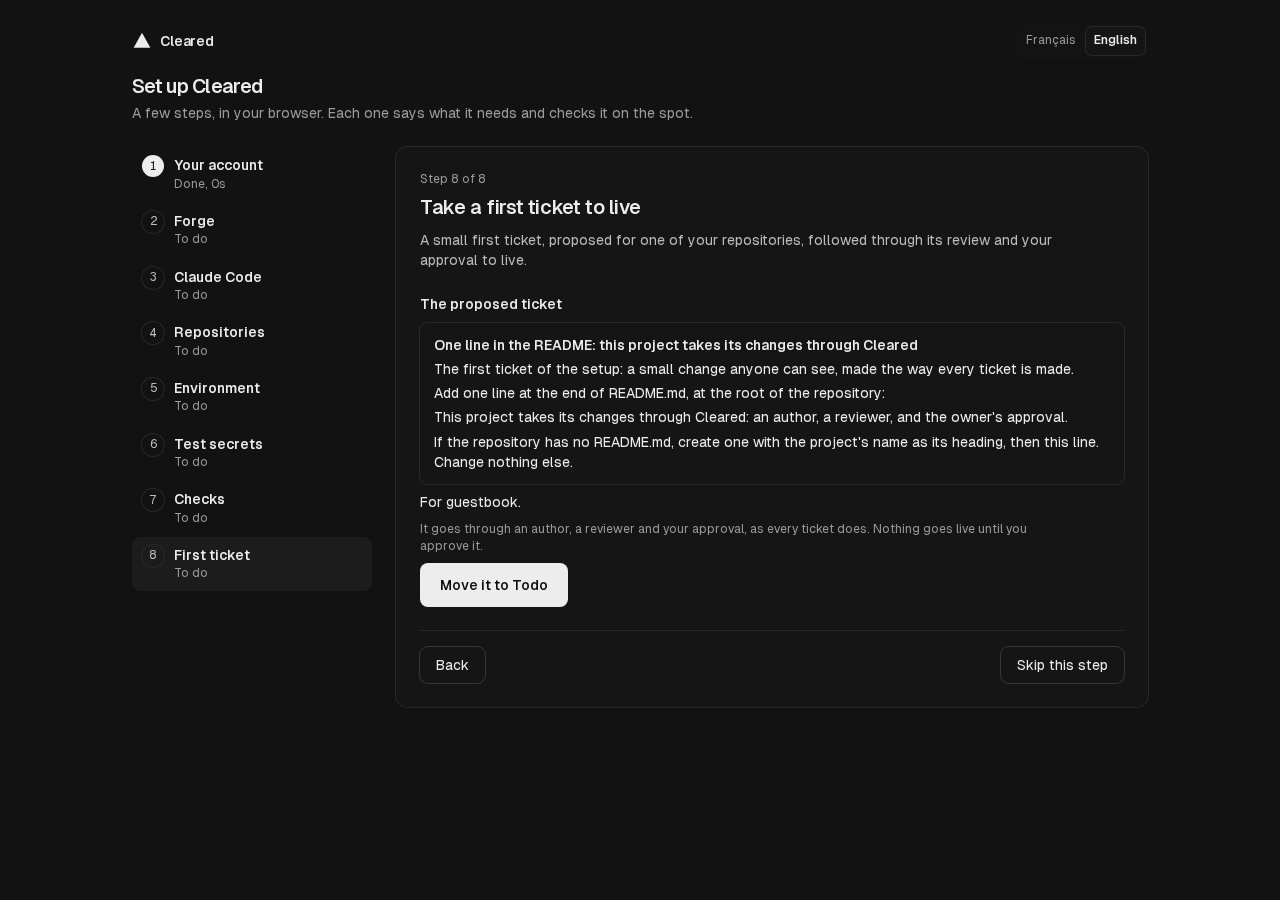
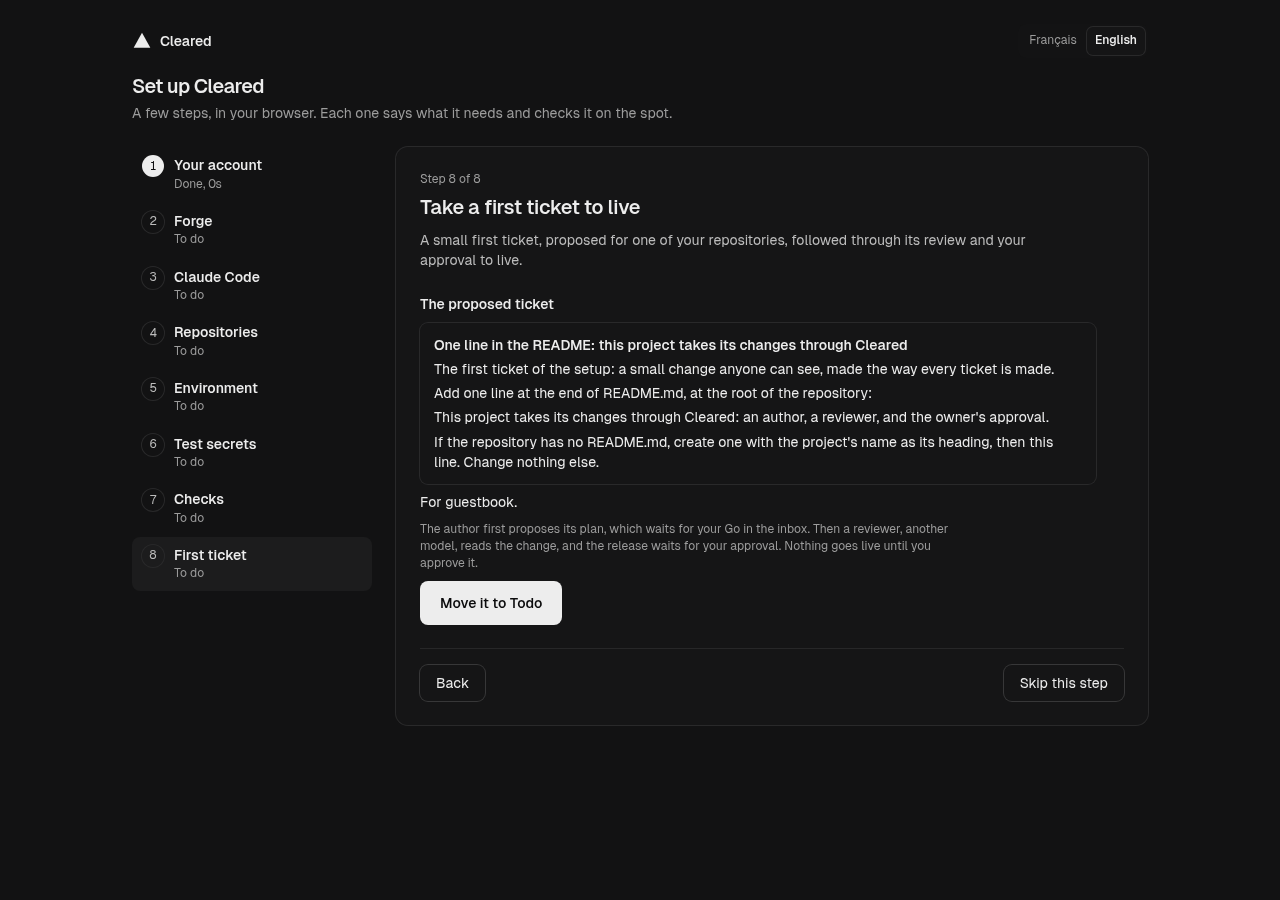
fix(v2): the first-ticket step says the session plan waits for its Go in the inbox (#446)
The first ticket's author proposes a session plan, and the flow holds it
until a Go (decision 22 of milestone 2). The step showed "the author" all
that time and linked to the inbox only at the approval, so a newcomer who
followed the step alone waited for the delay's Go, or for good when the
plan's confidence was not high.

While a session_plan item of the ticket waits in the inbox, the step's
stage is `plan`: it says the plan waits for the person's Go and links to
that item (/inbox#<id>). The list keeps the author's stage as the current
one, so it never moves back. The proposal's note says the plan's Go comes
first, then the review and the approval. French and English.

Refs #446

diff --git a/v2/test/setup/first-ticket.test.ts b/v2/test/setup/first-ticket.test.ts
@@ -17,10 +17,12 @@ import { HttpError } from '../../src/setup/http.ts';
 import { SETUP_STEPS_TABLE, SetupRecords } from '../../src/setup/records.ts';
 import type { StepDeps } from '../../src/setup/step.ts';
 import FIRST_TICKET, { FIRST_TICKET_TABLE, firstTicketStep } from '../../src/setup/steps/first-ticket.ts';
+import type { SessionPlanItem } from '../../src/api/types.ts';
+import type { FakeStep } from '../../src/session/adapters/fake.ts';
 import { HOUR_MS, summaryOf, totalOf } from '../../src/setup/summary.ts';
 import type { FirstTicketView, StepView } from '../../src/setup/types.ts';
 import { STEP_IDS } from '../../src/setup/types.ts';
-import { REPORT_PASS, quickAuthor, reviewerScript, setup, until, type Setup } from '../flow/support.ts';
+import { REPORT_PASS, fakeEffects, finished, quickAuthor, reviewerScript, setup, started, text, until, type Setup } from '../flow/support.ts';
 
 type Call = (path: string, options?: { readonly method?: string; readonly body?: unknown; readonly user?: string }) => Promise<{ status: number; text: string; json: any }>;
 
@@ -156,6 +158,35 @@ test('the step follows the ticket: working, review, then the approval waiting in
     (await call('?language=en'));
     assert.equal(records.get('first-ticket')?.machineMs, record?.machineMs, 'counted once');
   }, t.clock);
+});
+
+// Issue #446: the author's first turn proposes a session plan, and the
+// flow holds it until a Go (decision 22 of milestone 2). The step says the
+// plan waits for the person's Go and links to its item in the inbox.
+const planned: readonly FakeStep[] = [
+  started, ...text('p1', 'I read the project. Here is my plan.'),
+  { hostCall: { toolCallId: 'plan-1', name: 'propose_session_plan', input: { steps: ['Add the line'], files: ['README.md'], confidence: 'medium', reason: 'One line.' } } },
+  finished(0.1), { awaitMessage: true }, started, ...text('a1', 'Done.'), finished(0.3),
+];
+
+test('the plan waits for the owner\'s Go: the step says so with its item in the inbox, then follows the author once the Go is given', async () => {
+  const settings = await fakeEffects([]).settings();
+  const t = await setup({ scripts: { author: planned, reviewers: [reviewerScript(REPORT_PASS)] }, config: { authorTools: true }, effects: { settings: async () => settings } });
+  await serve(() => t.engine, async (call) => {
+    const made = (await call('', { method: 'POST', body: { service: 'guestbook', language: 'en' } })).json as FirstTicketView;
+    const waitingPlan = () => t.inbox.items().find((item): item is SessionPlanItem => item.kind === 'session_plan' && item.state === 'waiting' && item.ticket === made.ticket?.id);
+    await until(() => waitingPlan() !== undefined, 'the session plan in the inbox', 5000);
+    await t.engine.settled();
+    const item = waitingPlan() as SessionPlanItem;
+    const held = (await call('?language=en')).json as FirstTicketView;
+    assert.equal(held.ticket?.stage, 'plan');
+    assert.equal(held.ticket?.plan, item.id, 'the item the inbox opens');
+    await t.engine.planGo(item.sessionId, 'u1');
+    await t.engine.settled();
+    const going = (await call('?language=en')).json as FirstTicketView;
+    assert.notEqual(going.ticket?.stage, 'plan');
+    assert.equal(going.ticket?.plan ?? null, null);
+  });
 });
 
 test('a first ticket rolled back by the release watch is back in Todo, said so, and not live', async () => {

diff --git a/v2/src/setup/steps/first-ticket.ts b/v2/src/setup/steps/first-ticket.ts
@@ -2,8 +2,9 @@
 // 14, proof steps 9 and 10): a first ticket that changes one visible line
 // of the project, its text kept here rather than in the Tower's templates,
 // proposed with the service it targets; moved to Todo in one click, where
-// the flow starts it as any ticket (author, review, the owner's approval in
-// the inbox, the lock, the release watch); then followed to live. The step
+// the flow starts it as any ticket (author, its session plan's Go and the
+// owner's approval in the inbox, review, the lock, the release watch); then
+// followed to live. The step
 // is done when the ticket is Done, at that moment: the machine's time is
 // the sessions' (Todo to the approval asked) and the merge's (approved to
 // Done), the rest is the person's.
@@ -71,6 +72,11 @@ function stageOf(status: string, states: TicketStore['states']): FirstTicketStag
   }
 }
 
+// The author's session plan that waits for its Go in the inbox, if one does
+// (issue #446): the owner's gesture, as the approval is.
+const waitingPlan = (engine: FlowEngine, ticket: string): string | undefined =>
+  engine.inbox.items().find((item) => item.kind === 'session_plan' && item.state === 'waiting' && item.ticket === ticket)?.id;
+
 const ms = (from: string | undefined, to: string | undefined): number =>
   from && to ? Math.max(0, Date.parse(to) - Date.parse(from)) : 0;
 
@@ -102,12 +108,14 @@ export function firstTicketStep(options: { readonly engine: (registry: Registry)
     const ticket: Ticket | undefined = await tickets?.get(kept.ticket).catch(() => undefined);
     if (!tickets || !ticket) return { id: kept.ticket, title: '', service: kept.service, stage: 'stopped', createdAt: kept.created_at, rolledBack: false };
     const history = await tickets.history(ticket.id);
-    const stage = stageOf(ticket.status, tickets.states);
+    let stage = stageOf(ticket.status, tickets.states);
+    const plan = stage === 'working' && engine ? waitingPlan(engine, ticket.id) : undefined;
+    if (plan) stage = 'plan';
     if (stage === 'live' && !deps.records.get('first-ticket')?.doneAt) {
       deps.records.machine('first-ticket', machineOf(history, tickets.states));
       deps.records.done('first-ticket', history.filter((change) => change.status === tickets.states.done).at(-1)?.at ?? deps.now().toISOString());
     }
-    return { id: ticket.id, title: ticket.title, service: kept.service, stage, createdAt: kept.created_at, rolledBack: rolledBack(history, tickets.states) };
+    return { id: ticket.id, title: ticket.title, service: kept.service, stage, createdAt: kept.created_at, rolledBack: rolledBack(history, tickets.states), ...(plan ? { plan } : {}) };
   }
 
   async function viewOf(deps: StepDeps, context: RouteContext, language: Language): Promise<FirstTicketView> {

diff --git a/v2/app/web/screens/setup/steps/FirstTicket.tsx b/v2/app/web/screens/setup/steps/FirstTicket.tsx
@@ -3,7 +3,7 @@
 // targets, and one button that moves it to Todo; then the ticket followed
 // stage by stage, each stage in words beside its mark, the current one
 // marked for assistive technology and said in a polite live region; the
-// approval sent to the inbox, as for every ticket. Live, the setup's
+// session plan's Go and the approval sent to the inbox, as for every ticket. Live, the setup's
 // summary: each step's time, the person's and the machine's, and the total.
 import { useCallback, useEffect, useRef, useState } from 'react';
 import { summaryOf } from '../../../../../src/setup/summary.ts';
@@ -72,7 +72,8 @@ function Proposal({ t, view, onMove, busy, error }: { readonly t: Translate; rea
 function Followed({ t, view, summary }: { readonly t: Translate; readonly view: FirstTicketView; readonly summary: SetupView | undefined }) {
   const ticket = view.ticket;
   if (!ticket) return null;
-  const reached = FIRST_TICKET_STAGES.indexOf(ticket.stage as (typeof FIRST_TICKET_STAGES)[number]);
+  // A plan waiting for its Go is the author's stage: the list never moves back.
+  const reached = FIRST_TICKET_STAGES.indexOf((ticket.stage === 'plan' ? 'working' : ticket.stage) as (typeof FIRST_TICKET_STAGES)[number]);
   return (
     <div className="setup-result" data-first-ticket={ticket.stage}>
       <p className="first-ticket-id"><span className="first-ticket-ref">{ticket.id}</span> {ticket.title}</p>
@@ -90,6 +91,7 @@ function Followed({ t, view, summary }: { readonly t: Translate; readonly view: 
       </ol>
       <p className="setup-note" role="status" aria-live="polite">{t(`first_ticket_now_${ticket.stage}`)}</p>
       {ticket.rolledBack && ticket.stage !== 'live' ? <p className="setup-note" data-rolled-back>{t('first_ticket_rolled_back')}</p> : null}
+      {ticket.stage === 'plan' && ticket.plan ? <a className="btn" href={`/inbox#${encodeURIComponent(ticket.plan)}`}>{t('first_ticket_open_plan')}</a> : null}
       {ticket.stage === 'approval' ? <a className="btn" href="/inbox">{t('first_ticket_open_inbox')}</a> : null}
       {ticket.stage === 'live' && summary ? <SetupSummary t={t} view={summary} /> : null}
     </div>

diff --git a/v2/app/web/test/setup/first-ticket.test.tsx b/v2/app/web/test/setup/first-ticket.test.tsx
@@ -72,6 +72,27 @@ test('the ticket followed: each stage in words, the current one marked for assis
   });
 });
 
+// Issue #446: the author's session plan waits for the person's Go in the
+// inbox. The step says so and links to that item; the list keeps the
+// author's stage as the current one, so it never moves back.
+test('the plan waiting for its Go: said in words, the author\'s stage current, and a link to the plan in the inbox', () => {
+  each((t, language) => {
+    const markup = render(t, view({ ticket: { ...ticket('plan') as NonNullable<FirstTicketView['ticket']>, plan: 'session_plan:s-1:1' } }));
+    noMark(markup, `plan ${language}`);
+    assert.match(markup, /data-first-ticket="plan"/);
+    assert.equal(markup.match(/aria-current="step"/g)?.length, 1);
+    assert.match(markup, /data-stage="working"[^>]*aria-current="step"|aria-current="step"[^>]*data-stage="working"/);
+    assert.match(markup, /href="\/inbox#session_plan%3As-1%3A1"/);
+    assert.match(visibleText(markup).join(' '), language === 'en' ? /your Go/ : /votre Go/);
+  });
+});
+
+test('the proposal says the author\'s plan waits for a Go before the change, as the approval does before live', () => {
+  each((t, language) => {
+    assert.match(visibleText(render(t, view())).join(' '), language === 'en' ? /plan[^.]*your Go/ : /plan[^.]*votre Go/);
+  });
+});
+
 const steps: StepView[] = STEP_IDS.map((id, index) => ({
   ...STEP, id, state: id === 'secrets' ? 'skipped' : 'done', personMs: (index + 1) * 61_000, machineMs: id === 'environment' ? 7 * 60_000 : id === 'first-ticket' ? 11 * 60_000 : 0,
 }));

diff --git a/v2/src/setup/types.ts b/v2/src/setup/types.ts
@@ -80,9 +80,11 @@ export type ModelView = { readonly credential: CredentialView; readonly terminal
 // ticket store. todo: in Todo, the flow starting it; working: the author;
 // review: the reviewer; approval: waiting for the owner in the inbox;
 // merging: approved, the lock merges and the release watch runs; live: Done;
-// stopped: another state (set aside, closed).
+// stopped: another state (set aside, closed). plan: the author's session
+// plan waits for the person's Go in the inbox (issue #446), drawn on the
+// author's stage of the list, which then never moves back.
 export const FIRST_TICKET_STAGES = ['todo', 'working', 'review', 'approval', 'merging', 'live'] as const;
-export type FirstTicketStage = (typeof FIRST_TICKET_STAGES)[number] | 'stopped';
+export type FirstTicketStage = (typeof FIRST_TICKET_STAGES)[number] | 'plan' | 'stopped';
 
 export type FirstTicket = {
   readonly id: string;
@@ -91,6 +93,7 @@ export type FirstTicket = {
   readonly stage: FirstTicketStage;
   readonly createdAt: string;
   readonly rolledBack: boolean;                      // the release watch put it back in Todo after it was approved
+  readonly plan?: string;                            // the session plan's inbox item while it waits for its Go
 };
 
 // GET /api/setup/first-ticket?language= and POST { service, language }.

diff --git a/docs/v2/proof-j5.md b/docs/v2/proof-j5.md
@@ -40,7 +40,6 @@ What the code or the rehearsal shows will stop a real run, each to be closed bef
 - **The lock under Compose** (issue #438): the Compose broker idles until `CLEARED_V2_PROJECT_DIR` names a checkout, and the assistant gives it none. Step 10 waits for a lock that does not run. The rehearsal replaces the lock with a stand-in, so it does not prove step 10 under Compose.
 - **The lock's key** (question 1 of lane `v2-j5-first-ticket`, default (c) applied): v1's lock reads `human_public_key` from the project's `.cleared/agents.conf` only. Under that default the newcomer must add the line by hand, which fails pass 2. Options (a) or (b) of that question close it.
 - **The release request on an install by the assistant** (issue #445): the approval of a single service reads the project's verdict phrase and the pull request's head through `CLEARED_CONF` and `CLEARED_REPO` only, which such an install does not set. The first ticket goes back to Todo after its review, so step 9 cannot pass. Found by the rehearsal, which gives the service both as a stand-in.
-- **The session plan's Go** (issue #446): the first ticket's author proposes a session plan that waits for its Go in the inbox, and the first-ticket step does not say so. A newcomer who follows the step alone waits 10 minutes of the hour for the delay's Go. Found by the rehearsal, which gives the Go from the inbox.
 - **`claude setup-token` in the web terminal** (section 5.6 of the plan): not yet run with a real subscription. The rehearsal pastes a made-up value.
 
 ## After the run

diff --git a/docs/install.md b/docs/install.md
@@ -125,7 +125,7 @@ The checks of `cleared doctor`: Docker, the images, the state folder, the disk, 
 
 ### 8. First ticket
 
-A small first ticket, proposed for one of your repositories: one line added at the end of its README. One click moves it to Todo. The step follows it through its author, its review, your approval in the Inbox, the merge and the release watch, to live, then shows the time of each step and the total.
+A small first ticket, proposed for one of your repositories: one line added at the end of its README. One click moves it to Todo. The step follows it through its author, whose plan waits for your Go in the Inbox (the step links to it), its review, your approval in the Inbox, the merge and the release watch, to live, then shows the time of each step and the total.
 
 ![The first ticket, proposed](v2/first-ticket/first-ticket-proposal-1440-light.png)
 
